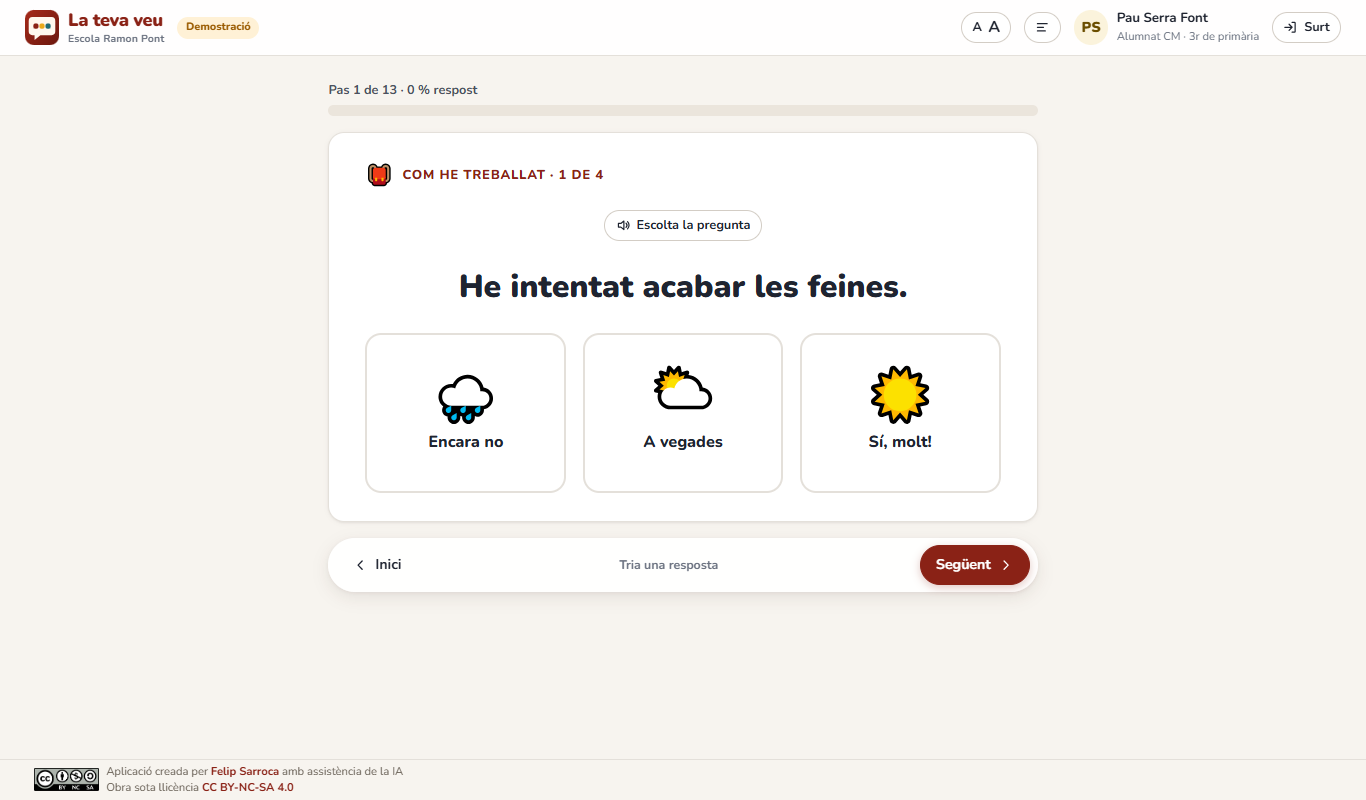
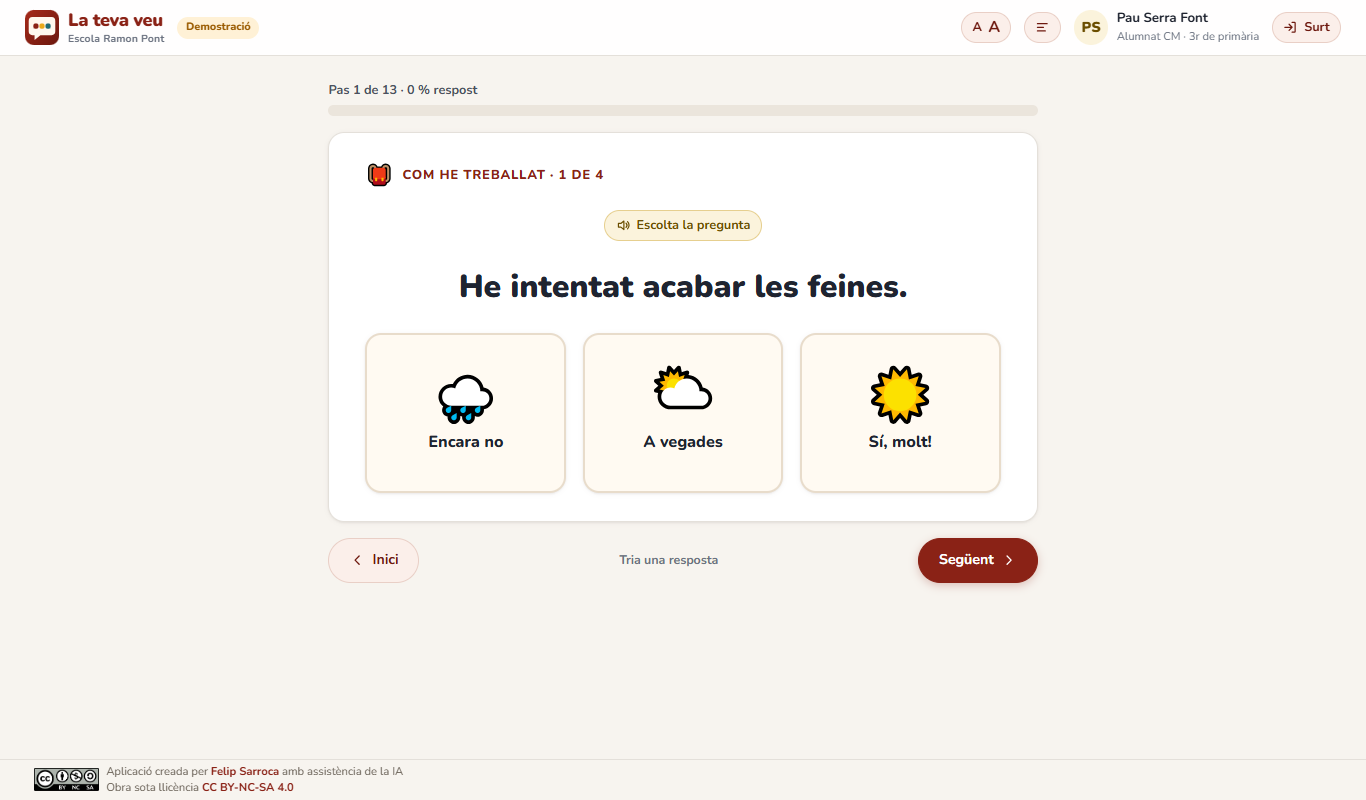
La teva veu: botons amb color, barra inferior sense requadre i entrada amb més aire
- La barra «Enrere / Següent / Lliura» ja no és un requadre fix: els
  botons van sols sota la targeta, a totes les etapes.
- Botons i elements clicables amb un toc de color: secundaris en granat
  suau (verd blavós a «Et veig»), «Escolta» daurat, opcions de resposta
  i targetes dels docents amb fons càlid i ombra.
- Entrada: més distància entre títol, lema i els dos apartats, amb una
  línia daurada de separació.

diff --git a/LaTevaVeu/src/styles.css b/LaTevaVeu/src/styles.css
@@ -74,24 +74,24 @@ p { margin: 0; }
 
 /* ---------- Botons ---------- */
 .btn {
-  --b: var(--card);
+  --b: #fbefea;
   display: inline-flex; align-items: center; justify-content: center; gap: .5em;
   min-height: 44px; padding: .55em 1.1em;
-  border: 1.5px solid var(--line-2); border-radius: 999px;
-  background: var(--b); color: var(--ink);
+  border: 1.5px solid #e9cfc6; border-radius: 999px;
+  background: var(--b); color: var(--brand-ink);
   font-weight: 700; font-size: .98rem; line-height: 1.15; text-decoration: none; white-space: nowrap;
   transition: background .15s, border-color .15s, transform .08s, box-shadow .15s;
 }
-.btn:hover { border-color: var(--ink-3); }
+.btn:hover { border-color: var(--brand); background: #f6e2db; }
 .btn:active { transform: translateY(1px); }
 .btn:disabled { opacity: .5; cursor: not-allowed; transform: none; }
 .btn svg { width: 1.15em; height: 1.15em; flex: none; }
 .btn.primary { background: var(--brand); border-color: var(--brand); color: #fff; box-shadow: 0 3px 10px rgba(138, 34, 22, .25); }
 .btn.primary:hover:not(:disabled) { background: var(--brand-ink); border-color: var(--brand-ink); }
 .btn.gold { background: var(--gold); border-color: var(--gold); color: #fff; }
-.btn.ghost { background: transparent; border-color: transparent; }
+.btn.ghost { background: transparent; border-color: transparent; color: var(--ink); }
 .btn.ghost:hover { background: rgba(0, 0, 0, .05); }
-.btn.danger { color: var(--bad); border-color: #efb8b3; }
+.btn.danger { color: var(--bad); border-color: #efb8b3; background: var(--bad-soft); }
 .btn.small { min-height: 34px; padding: .3em .8em; font-size: .88rem; }
 .btn.large { min-height: 56px; padding: .7em 1.6em; font-size: 1.1rem; }
 .btn.icon { width: 44px; padding: 0; }
@@ -165,7 +165,7 @@ body { padding-bottom: var(--footer-h); }
   overflow: hidden; border-radius: var(--r-xl); box-shadow: var(--sh-3); background: #fff;
 }
 .login-brand {
-  position: relative; display: flex; flex-direction: column; justify-content: center; gap: clamp(1.6rem, calc(6 * var(--vh)), 3.2rem);
+  position: relative; display: flex; flex-direction: column; justify-content: center; gap: clamp(2rem, calc(9 * var(--vh)), 4.6rem);
   padding: clamp(28px, calc(6 * var(--vh)), 56px) clamp(24px, 4vw, 48px);
   background: linear-gradient(155deg, #8a2216 0%, #6e190f 55%, #4f120b 100%); color: #fff; overflow: hidden;
 }
@@ -181,17 +181,18 @@ body { padding-bottom: var(--footer-h); }
 .login-title { display: flex; align-items: center; gap: .9rem; }
 .login-title-text span { color: #f3c64c; }
 .login-app-icon { flex: none; width: 1.25em; height: 1.25em; border-radius: 22%; box-shadow: 0 0 0 3px rgba(255, 255, 255, .85), 0 6px 18px rgba(0, 0, 0, .25); }
-.login-sub { font-size: 1.2rem; opacity: .92; margin-top: .9rem; font-weight: 600; }
+.login-sub { font-size: 1.22rem; opacity: .92; margin-top: 1.3rem; font-weight: 600; }
+.login-sub::after { content: ''; display: block; width: 56px; height: 3px; margin-top: clamp(1.4rem, calc(4 * var(--vh)), 2.2rem); border-radius: 3px; background: #f3c64c; }
 /* Els dos espais, amb el mateix color que tenen dins l'app (or per a Em miro, verd blavós per a Et veig). */
-.login-steps { display: grid; gap: .8rem; list-style: none; margin: 0; padding: 0; }
-.login-steps li { display: flex; align-items: center; gap: .9rem; }
-.login-steps li > span { display: grid; place-items: center; width: 44px; height: 44px; border-radius: 14px; font-size: 1.35rem; flex: none; }
+.login-steps { display: grid; gap: clamp(1.3rem, calc(4.5 * var(--vh)), 2.2rem); list-style: none; margin: 0; padding: 0; }
+.login-steps li { display: flex; align-items: center; gap: 1.1rem; }
+.login-steps li > span { display: grid; place-items: center; width: 50px; height: 50px; border-radius: 15px; font-size: 1.5rem; flex: none; }
 .login-steps li.em > span { background: #f3c64c; }
 .login-steps li.ev > span { background: #5fb3bb; }
-.login-steps b { display: block; font-size: 1.08rem; font-weight: 900; }
+.login-steps b { display: block; font-size: 1.12rem; font-weight: 900; margin-bottom: .25rem; }
 .login-steps li.em b { color: #f8d97a; }
 .login-steps li.ev b { color: #9fdbe0; }
-.login-steps small { display: block; font-size: .9rem; font-weight: 600; opacity: .88; line-height: 1.35; }
+.login-steps small { display: block; font-size: .92rem; font-weight: 600; opacity: .88; line-height: 1.45; }
 .login-form {
   display: flex; flex-direction: column; justify-content: center; gap: 1.6rem;
   padding: clamp(28px, calc(6 * var(--vh)), 56px) clamp(24px, 4.5vw, 56px);
@@ -257,7 +258,9 @@ body { padding-bottom: var(--footer-h); }
 .step-intro { color: var(--ink-2); font-size: 1.02rem; }
 .stage-CM .statement { font-size: clamp(1.5rem, min(4vw, calc(5 * var(--vh))), 2.2rem); font-weight: 900; line-height: 1.25; text-align: center; padding: .5rem 0; }
 .speak { flex: none; }
-.speak.on { background: var(--gold-soft); border-color: var(--gold); }
+.speak { background: var(--gold-soft); border-color: #e6cf8f; color: #6b4e00; }
+.speak:hover { background: #f6e6b8; border-color: var(--gold); }
+.speak.on { background: #f6e6b8; border-color: var(--gold); }
 
 /* Opcions grans (cicle mitjà i objectiu) */
 .big-options { display: grid; grid-template-columns: repeat(auto-fit, minmax(150px, 1fr)); gap: clamp(10px, 2vw, 18px); }
@@ -266,7 +269,7 @@ body { padding-bottom: var(--footer-h); }
 .big-opt label {
   display: flex; flex-direction: column; align-items: center; justify-content: center; gap: .5rem; height: 100%;
   min-height: clamp(120px, calc(20 * var(--vh)), 180px); padding: 1rem;
-  border: 3px solid var(--line); border-radius: var(--r-l); background: #fff; cursor: pointer; text-align: center;
+  border: 3px solid #e8dccb; border-radius: var(--r-l); background: #fffaf2; box-shadow: var(--sh-1); cursor: pointer; text-align: center;
   font-weight: 800; font-size: 1.12rem; transition: transform .12s, border-color .12s, background .12s, box-shadow .12s;
 }
 .big-opt .em { font-size: clamp(2.6rem, calc(7 * var(--vh)), 3.6rem); line-height: 1; transition: transform .2s; }
@@ -291,7 +294,7 @@ fieldset.qrow { margin: 0; min-width: 0; }
 .seg-opt input { position: absolute; opacity: 0; inset: 0; margin: 0; cursor: pointer; }
 .seg-opt label {
   display: flex; align-items: center; justify-content: center; gap: .35rem; height: 100%; min-height: 46px; padding: .4rem .5rem;
-  border: 2px solid var(--line); border-radius: var(--r-s); background: #fff; cursor: pointer; text-align: center;
+  border: 2px solid #e8dccb; border-radius: var(--r-s); background: #fffaf2; cursor: pointer; text-align: center;
   font-weight: 700; font-size: .93rem; line-height: 1.15; transition: border-color .12s, background .12s, color .12s;
 }
 .seg-opt label:hover { border-color: var(--gold); }
@@ -322,10 +325,11 @@ fieldset.qrow { margin: 0; min-width: 0; }
 .goal-quote { padding: 1rem 1.2rem; border-left: 5px solid var(--gold); border-radius: var(--r-s); background: var(--gold-soft); font-size: 1.1rem; font-weight: 700; font-style: italic; }
 
 /* Navegació inferior */
-.stu-nav { position: sticky; bottom: calc(var(--footer-h) + 8px); z-index: 15; display: flex; align-items: center; gap: .75rem; padding: .5rem; border-radius: 999px; background: rgba(255, 255, 255, .96); backdrop-filter: blur(8px); box-shadow: var(--sh-2); }
-/* Dins de la barra, el botó secundari no fa caixa: només el principal destaca. */
-.stu-nav .btn:not(.primary) { border-color: transparent; background: transparent; }
-.stu-nav .btn:not(.primary):hover { background: rgba(0, 0, 0, .05); }
+.stu-nav { display: flex; align-items: center; gap: .75rem; }
+.stu-nav .btn { min-height: 50px; padding-inline: 1.4em; }
+/* A «Et veig», els botons secundaris prenen el verd blavós de l'apartat. */
+.etveig .btn:not(.primary):not(.speak):not(.ghost):not(.danger) { --b: var(--ev-soft); border-color: #b9d9dc; color: var(--ev-ink); }
+.etveig .btn:not(.primary):not(.speak):not(.ghost):not(.danger):hover { border-color: var(--ev); background: #d3e8ea; }
 .stu-nav .hint { flex: 1; text-align: center; font-size: .86rem; color: var(--ink-3); font-weight: 700; }
 
 /* Benvinguda */
@@ -521,7 +525,7 @@ table.t { width: 100%; border-collapse: collapse; font-size: .92rem; }
 
 /* Llista de docents de l'alumne */
 .t-grid { display: grid; grid-template-columns: repeat(auto-fill, minmax(250px, 1fr)); gap: .7rem; }
-.t-card { display: flex; align-items: center; gap: .8rem; width: 100%; padding: .8rem .9rem; border: 2px solid var(--line); border-radius: var(--r-l); background: var(--card); text-align: left; font: inherit; color: inherit; cursor: pointer; transition: border-color .15s, transform .15s, box-shadow .15s; }
+.t-card { display: flex; align-items: center; gap: .8rem; width: 100%; padding: .8rem .9rem; border: 2px solid #cfe3e5; border-radius: var(--r-l); background: var(--card); box-shadow: var(--sh-1); text-align: left; font: inherit; color: inherit; cursor: pointer; transition: border-color .15s, transform .15s, box-shadow .15s; }
 .t-card:hover:not(:disabled) { border-color: var(--ev); transform: translateY(-2px); box-shadow: var(--sh-2); }
 .t-card:focus-visible { outline: 3px solid var(--focus); outline-offset: 3px; }
 .t-card.done { cursor: default; background: #f6faf8; border-color: #cfe7da; }
@@ -707,7 +711,6 @@ table.t { width: 100%; border-collapse: collapse; font-size: .92rem; }
   .brandmark b { font-size: 1.1rem; }
   .seg-opt { min-width: calc(50% - .2rem); flex-basis: calc(50% - .2rem); }
   .seg-opt.na { flex-basis: 100%; }
-  .stu-nav { border-radius: var(--r-l); }
   .stu-nav .hint { display: none; }
   .stu-nav .btn { flex: 1; }
   .big-options { grid-template-columns: 1fr; }

diff --git a/LaTevaVeu/SEGUIMENT.md b/LaTevaVeu/SEGUIMENT.md
@@ -78,7 +78,8 @@ Torna-les a fer quan canviï alguna de les pantalles que surten al README.
 - **README** reorganitzat, amb 13 captures de la demostració.
 - **Pantalles de l'alumnat més netes**: sense targetes dins de targetes (inici, llista de docents, preguntes en files amb línia divisòria, resum final); fora textos sobrers (frase de la llista de docents, avís blau de confidencialitat reduït a una línia, rètols «Bloc» i «Abans d'enviar», ajudes repetides); a primària, sense dates.
 - **Lectura en veu alta**: àudios MP3 pregenerats amb la veu neuronal catalana `ca-ES-JoanaNeural` (edge-tts), com a VoltaMon: `public/audio/<clau>.mp3`, un per fragment (pregunta, ajuda, matèria, opcions d'una escala), i `index.json` amb la llista. La clau és un resum del text (`src/domain/speech.ts`): si l'escola edita una pregunta, aquell fragment es llegeix amb la millor veu catalana del navegador fins que es regenerin els àudios amb `npm run audios`. Una prova falla si algun text dels qüestionaris inicials no té àudio.
-- **Barra inferior i entrada sense caixes de més**: a la barra «Enrere / Següent / Lliura» només destaca el botó principal; a l'entrada, «Em miro» i «Et veig…» ja no van dins de requadres.
+- **Barra inferior sense requadre**: «Enrere», l'avís del mig i «Següent / Lliura» van sols sota la targeta, a totes les etapes. A l'entrada, «Em miro» i «Et veig…» ja no van dins de requadres i la columna esquerra té més aire.
+- **Botons amb color**: els secundaris tenen un fons granat suau (verd blavós a «Et veig»), «Escolta» és daurat i les opcions de resposta i les targetes dels docents tenen fons càlid i ombra, perquè es distingeixin del fons.
 - **Presentació del projecte** (`#/projecte`): sentit, marc normatiu citat de fonts oficials (Convenció sobre els Drets de l'Infant art. 12; LOE-LOMLOE art. 1 i 91; Decret 175/2022 art. 22, 23 i 24), què fa l'app, com funciona, beneficis i privacitat.
 
 ## Pendent
